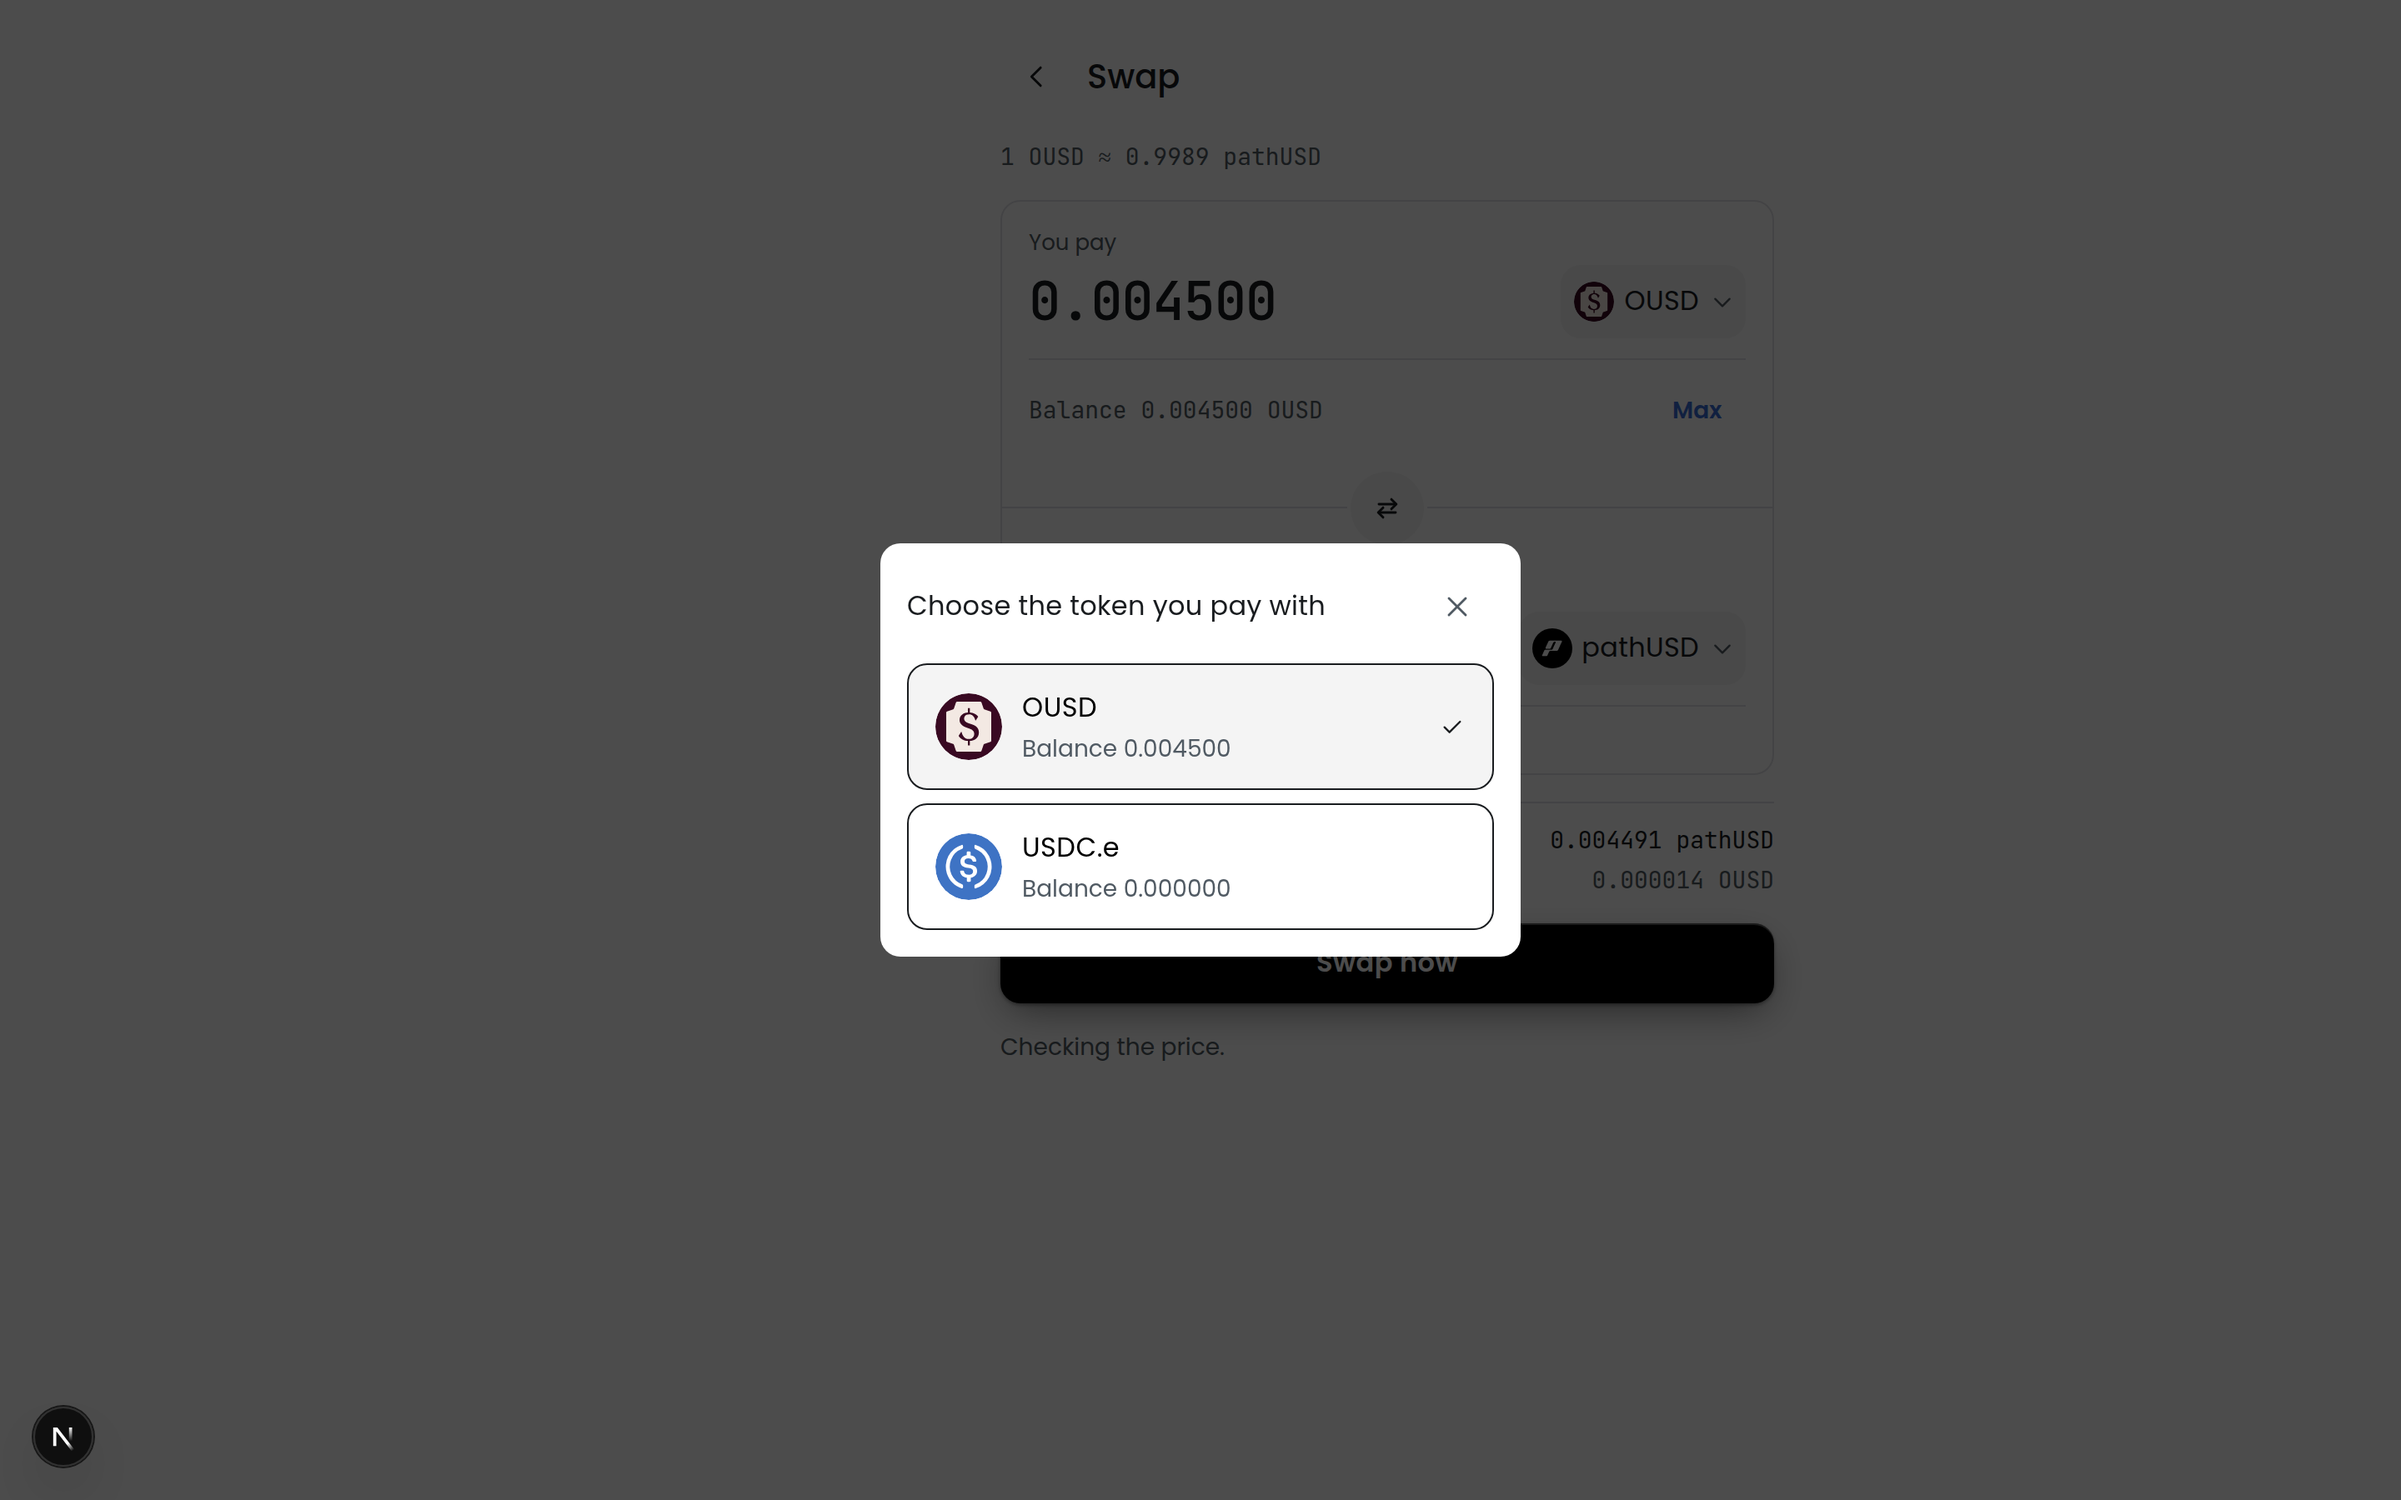
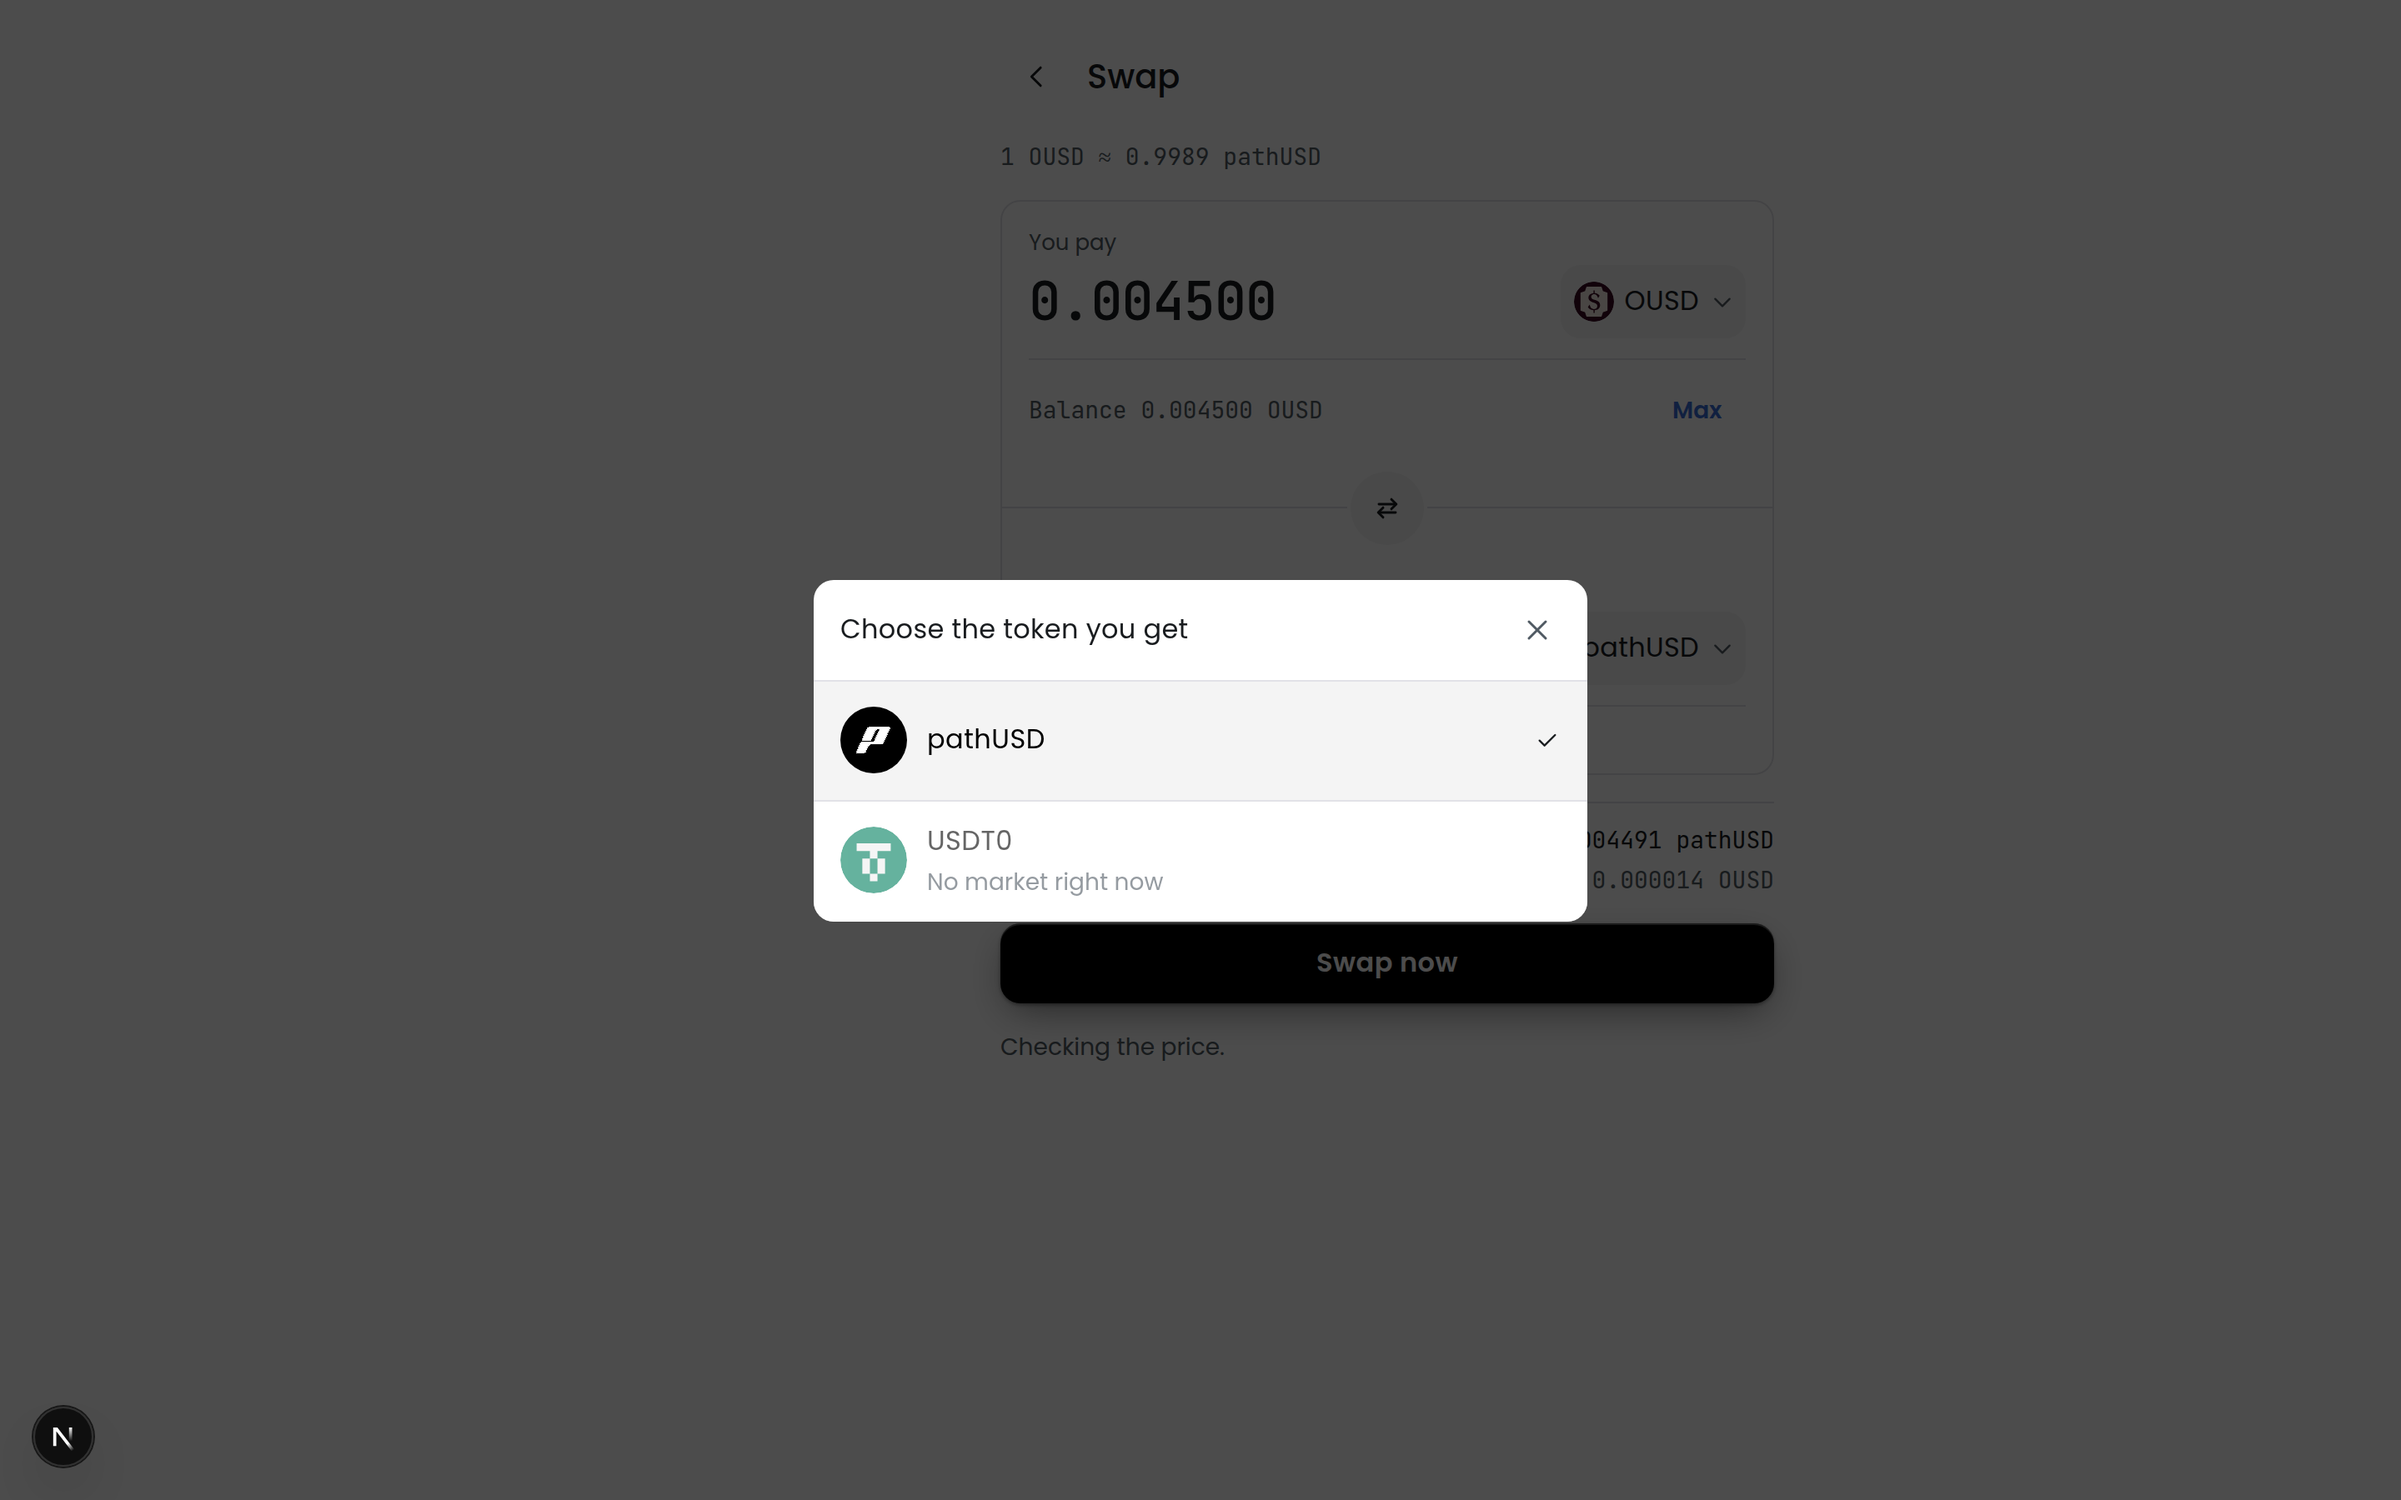
fix(swap): the token list is one surface, the width of the card it belongs to
The dialog drew each token as a bordered box, stacked with gaps, inside a
panel of its own size: boxes within a box, floating at 384px over a 464px card
(#545).

It reads as one panel now. A header row with the title and the close control,
a hairline, then the tokens as list rows — no border or radius of their own,
the separators owned by the list, one height each so the list cannot step in
size when a row has no balance line under it. The panel is the swap card's own
width, so its edges sit exactly over the surface it belongs to.

That is a `list` variant on `ChoiceRow` rather than a fourth row recipe: the
`option` variant stays a framed box for a page of choices, where the box is
the point.

`check:convert-swap` asserts it (rows without a frame, separators on the list,
the panel at the card's width).

Changed region(s): [[0.3125, 0.3422, 0.6875, 0.6533]]

diff --git a/web/components/swap/SwapTokenPicker.tsx b/web/components/swap/SwapTokenPicker.tsx
@@ -20,9 +20,11 @@ import type { SwapAssetOption, SwapTokenPickerProps } from './SwapForm.types';
  * options could only be text: no mark, no second line, no way to say why a token the quote
  * will not fill is still listed. A picker that is the app's own surface can say all three.
  *
- * The rows are `ChoiceRow`, the control send and pay already use to choose a balance, so the
- * three flows cannot drift into three mental models of the same choice — and the row now takes
- * the token's mark (`mark`), which is what makes `USDC.e` and `USDT0` one glance apart.
+ * The rows are `ChoiceRow` in its `list` variant, so they carry no border of their own and the
+ * hairline between them belongs to the list: as bordered boxes inside a bordered panel they
+ * read as boxes within a box rather than as the one surface this is. The panel is the swap
+ * card's own width (`29rem`), so the dialog sits exactly over the thing it belongs to instead
+ * of floating at a different size.
  *
  * It is a portal for the same reason the receipt is: a dialog rendered inside the form is
  * clipped by any ancestor with `overflow` and can be given a form's submit semantics by the
@@ -50,7 +52,7 @@ export function SwapTokenPicker({
         onClick={(event) => event.stopPropagation()}
         className={SWAP_MENU_PANEL_CLASS}
       >
-        <div className="mb-3 flex items-center justify-between gap-3">
+        <div className="flex items-center justify-between gap-3 py-2 pl-4 pr-2">
           <Text variant="card-title" as="h2" id={SWAP_MENU_TITLE_ID}>
             {title}
           </Text>
@@ -65,10 +67,11 @@ export function SwapTokenPicker({
           </button>
         </div>
 
-        <div className="space-y-2">
+        <div className="divide-y divide-hairline-light border-t border-hairline-light">
           {options.map((option) => (
             <ChoiceRow
               key={option.asset}
+              variant="list"
               mark={<TokenMark asset={option.asset} size="lg" />}
               label={option.symbol}
               detail={rowDetail(option)}

diff --git a/web/components/ui/ChoiceRow.constants.ts b/web/components/ui/ChoiceRow.constants.ts
@@ -13,3 +13,22 @@
  */
 export const CHOICE_ROW_CLASS =
   'flex w-full items-start gap-3 rounded-md border border-hairline-strong bg-canvas-light px-4 py-3.5 text-left transition-colors duration-200 hover:bg-surface-soft focus-visible:outline-none focus-visible:ring-2 focus-visible:ring-primary focus-visible:ring-offset-2 disabled:cursor-not-allowed disabled:opacity-60 min-h-14';
+
+/**
+ * The same row, as one line of a LIST (#545).
+ *
+ * A row that opens a dialog of choices is not a page of options that each act in place, and
+ * inside a panel it read as a box inside a box: `option`'s ink border plus the dialog's own
+ * edge plus the gap between rows said "six separate cards" where the surface is one list. So
+ * the list variant carries no border and no radius, and the separators belong to the list
+ * (`divide-y`), which is how every other list in the app is drawn.
+ *
+ * `ring-inset` because the row now reaches the panel's edge: an offset ring on a full-width
+ * row paints outside the panel and clips against its radius.
+ *
+ * The height is FIXED rather than a minimum: a row whose mark is taller than its words (a
+ * token with no balance line under it) came out 2px shorter than its neighbours, so the list
+ * stepped in size — which reads as a rendering fault, not a list. One height, content centred.
+ */
+export const CHOICE_ROW_LIST_CLASS =
+  'flex h-[4.5rem] w-full items-center gap-3 bg-canvas-light px-4 text-left transition-colors duration-200 hover:bg-surface-soft focus-visible:outline-none focus-visible:ring-2 focus-visible:ring-primary focus-visible:ring-inset disabled:cursor-not-allowed disabled:opacity-60';

diff --git a/web/components/ui/ChoiceRow.tsx b/web/components/ui/ChoiceRow.tsx
@@ -1,7 +1,7 @@
 import { cn } from '@/lib/cn';
 import { Icon } from './Icon';
 import { Text } from './Text';
-import { CHOICE_ROW_CLASS } from './ChoiceRow.constants';
+import { CHOICE_ROW_CLASS, CHOICE_ROW_LIST_CLASS } from './ChoiceRow.constants';
 import type { ChoiceRowProps } from './ChoiceRow.types';
 
 /**
@@ -28,15 +28,22 @@ export function ChoiceRow({
   disabled,
   selected = false,
   showChevron = false,
+  variant = 'option',
   className,
 }: ChoiceRowProps) {
+  const list = variant === 'list';
+
   return (
     <button
       type="button"
       onClick={onSelect}
       disabled={disabled}
       aria-pressed={selected}
-      className={cn(CHOICE_ROW_CLASS, selected && 'border-ink bg-surface-soft', className)}
+      className={cn(
+        list ? CHOICE_ROW_LIST_CLASS : CHOICE_ROW_CLASS,
+        selected && (list ? 'bg-surface-soft' : 'border-ink bg-surface-soft'),
+        className
+      )}
     >
       <span className="flex min-w-0 flex-1 items-center gap-3">
         {mark ? (

diff --git a/web/components/swap/SwapForm.constants.ts b/web/components/swap/SwapForm.constants.ts
@@ -182,7 +182,7 @@ export const SWAP_TOKEN_CHEVRON_CLASS = 'h-4 w-4 shrink-0 text-mute';
 export const SWAP_MENU_OVERLAY_CLASS =
   'fixed inset-0 z-50 flex items-end justify-center bg-canvas-dark/70 p-0 sm:items-center sm:p-6';
 export const SWAP_MENU_PANEL_CLASS =
-  'max-h-[80dvh] w-full overflow-y-auto rounded-t-md bg-canvas-light p-4 focus:outline-none sm:max-w-sm sm:rounded-md';
+  'max-h-[80dvh] w-full overflow-y-auto rounded-t-md bg-canvas-light focus:outline-none sm:max-w-[29rem] sm:rounded-md';
 export const SWAP_MENU_TITLE_ID = 'swap-token-menu-title';
 /** The focus ring's selector for the dialog's own Tab trap. */
 export const SWAP_MENU_FOCUSABLE = 'button:not([disabled]), [href], input, select, textarea, [tabindex]:not([tabindex="-1"])';

diff --git a/web/components/ui/ChoiceRow.types.ts b/web/components/ui/ChoiceRow.types.ts
@@ -26,5 +26,11 @@ export interface ChoiceRowProps {
   selected?: boolean;
   /** A trailing chevron, for a row that opens something rather than acting in place. */
   showChevron?: boolean;
+  /**
+   * How the row is drawn (#545): `option` is one of a page of choices, `list` is one line of
+   * a list inside a panel. The difference is the frame: an option is its own box with an ink
+   * border, a list row has none and takes the list's own separators.
+   */
+  variant?: 'option' | 'list';
   className?: string;
 }
